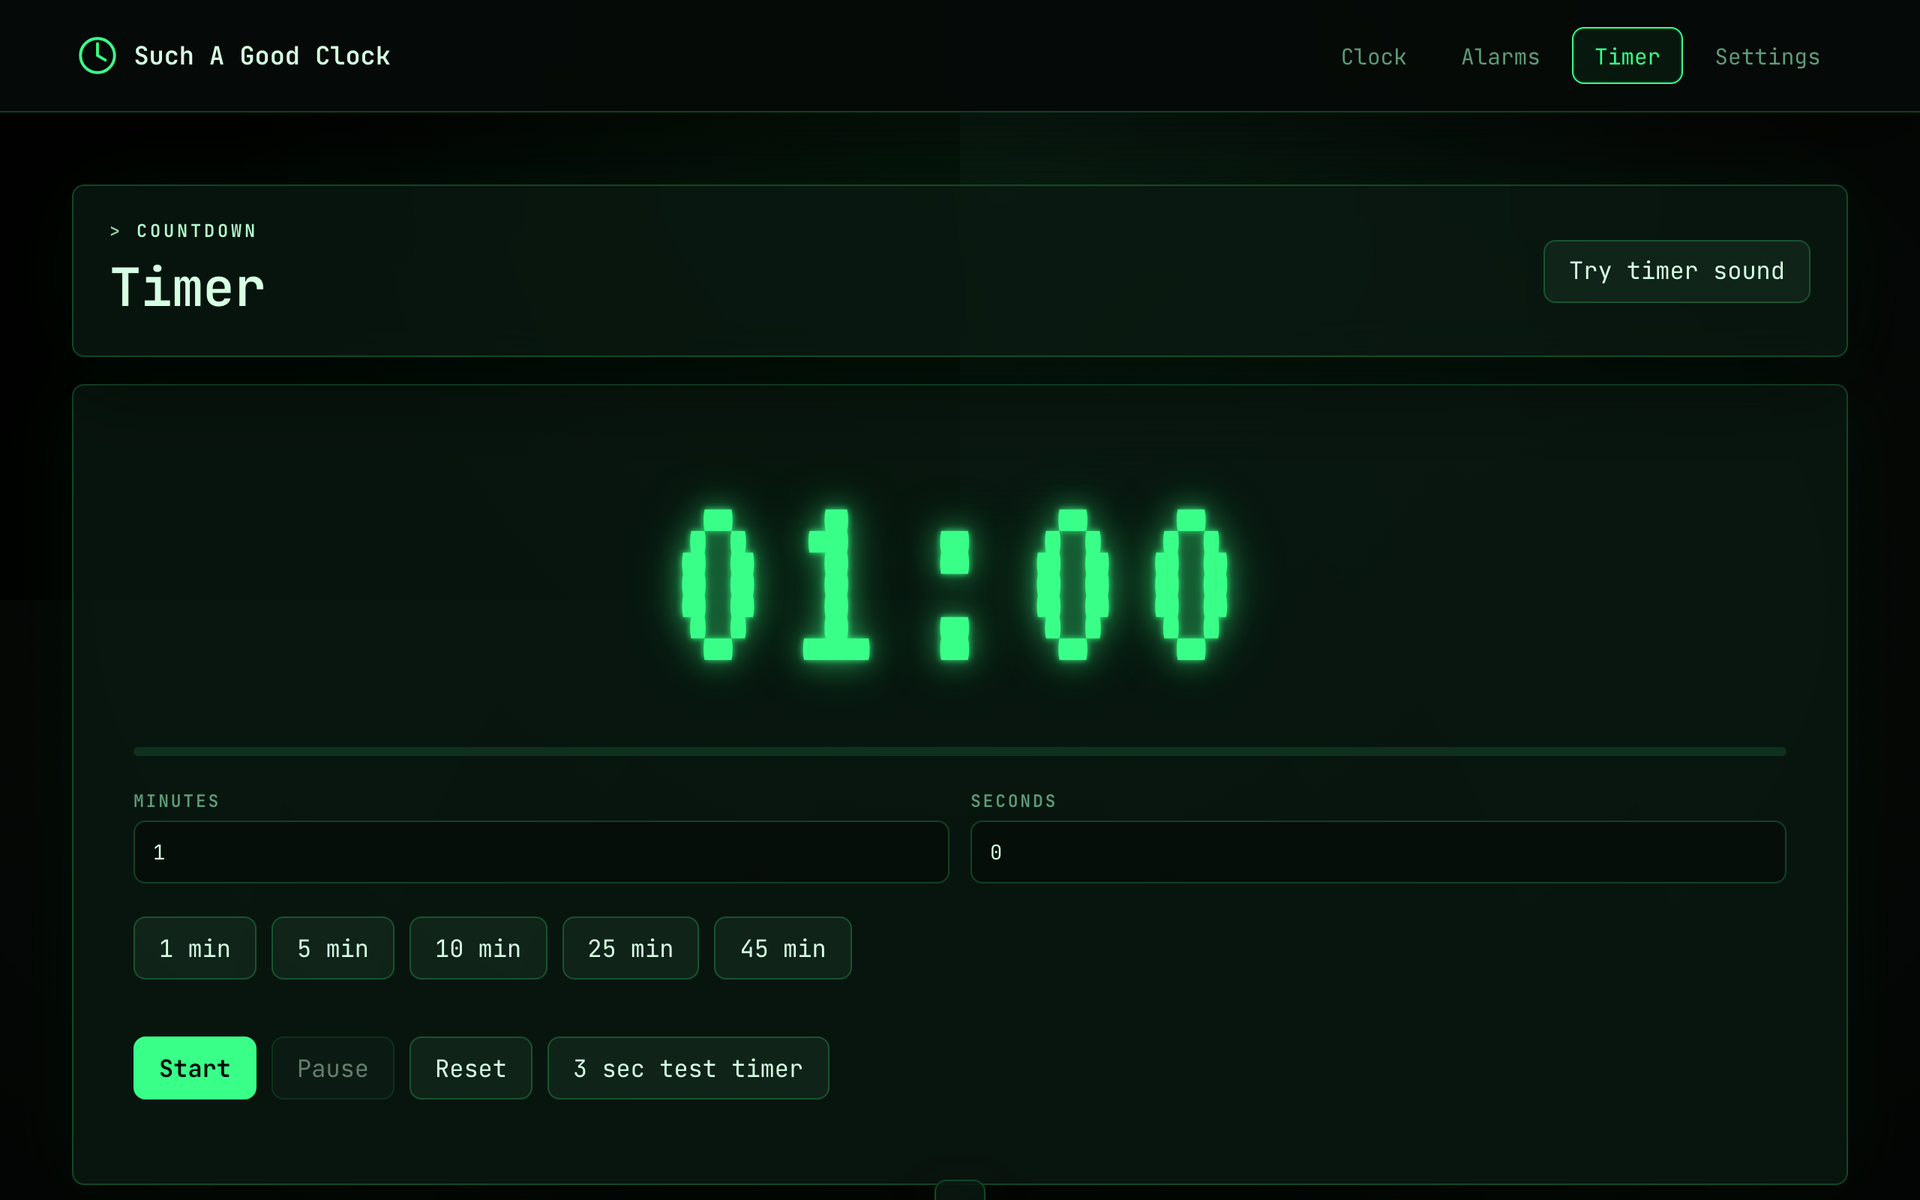
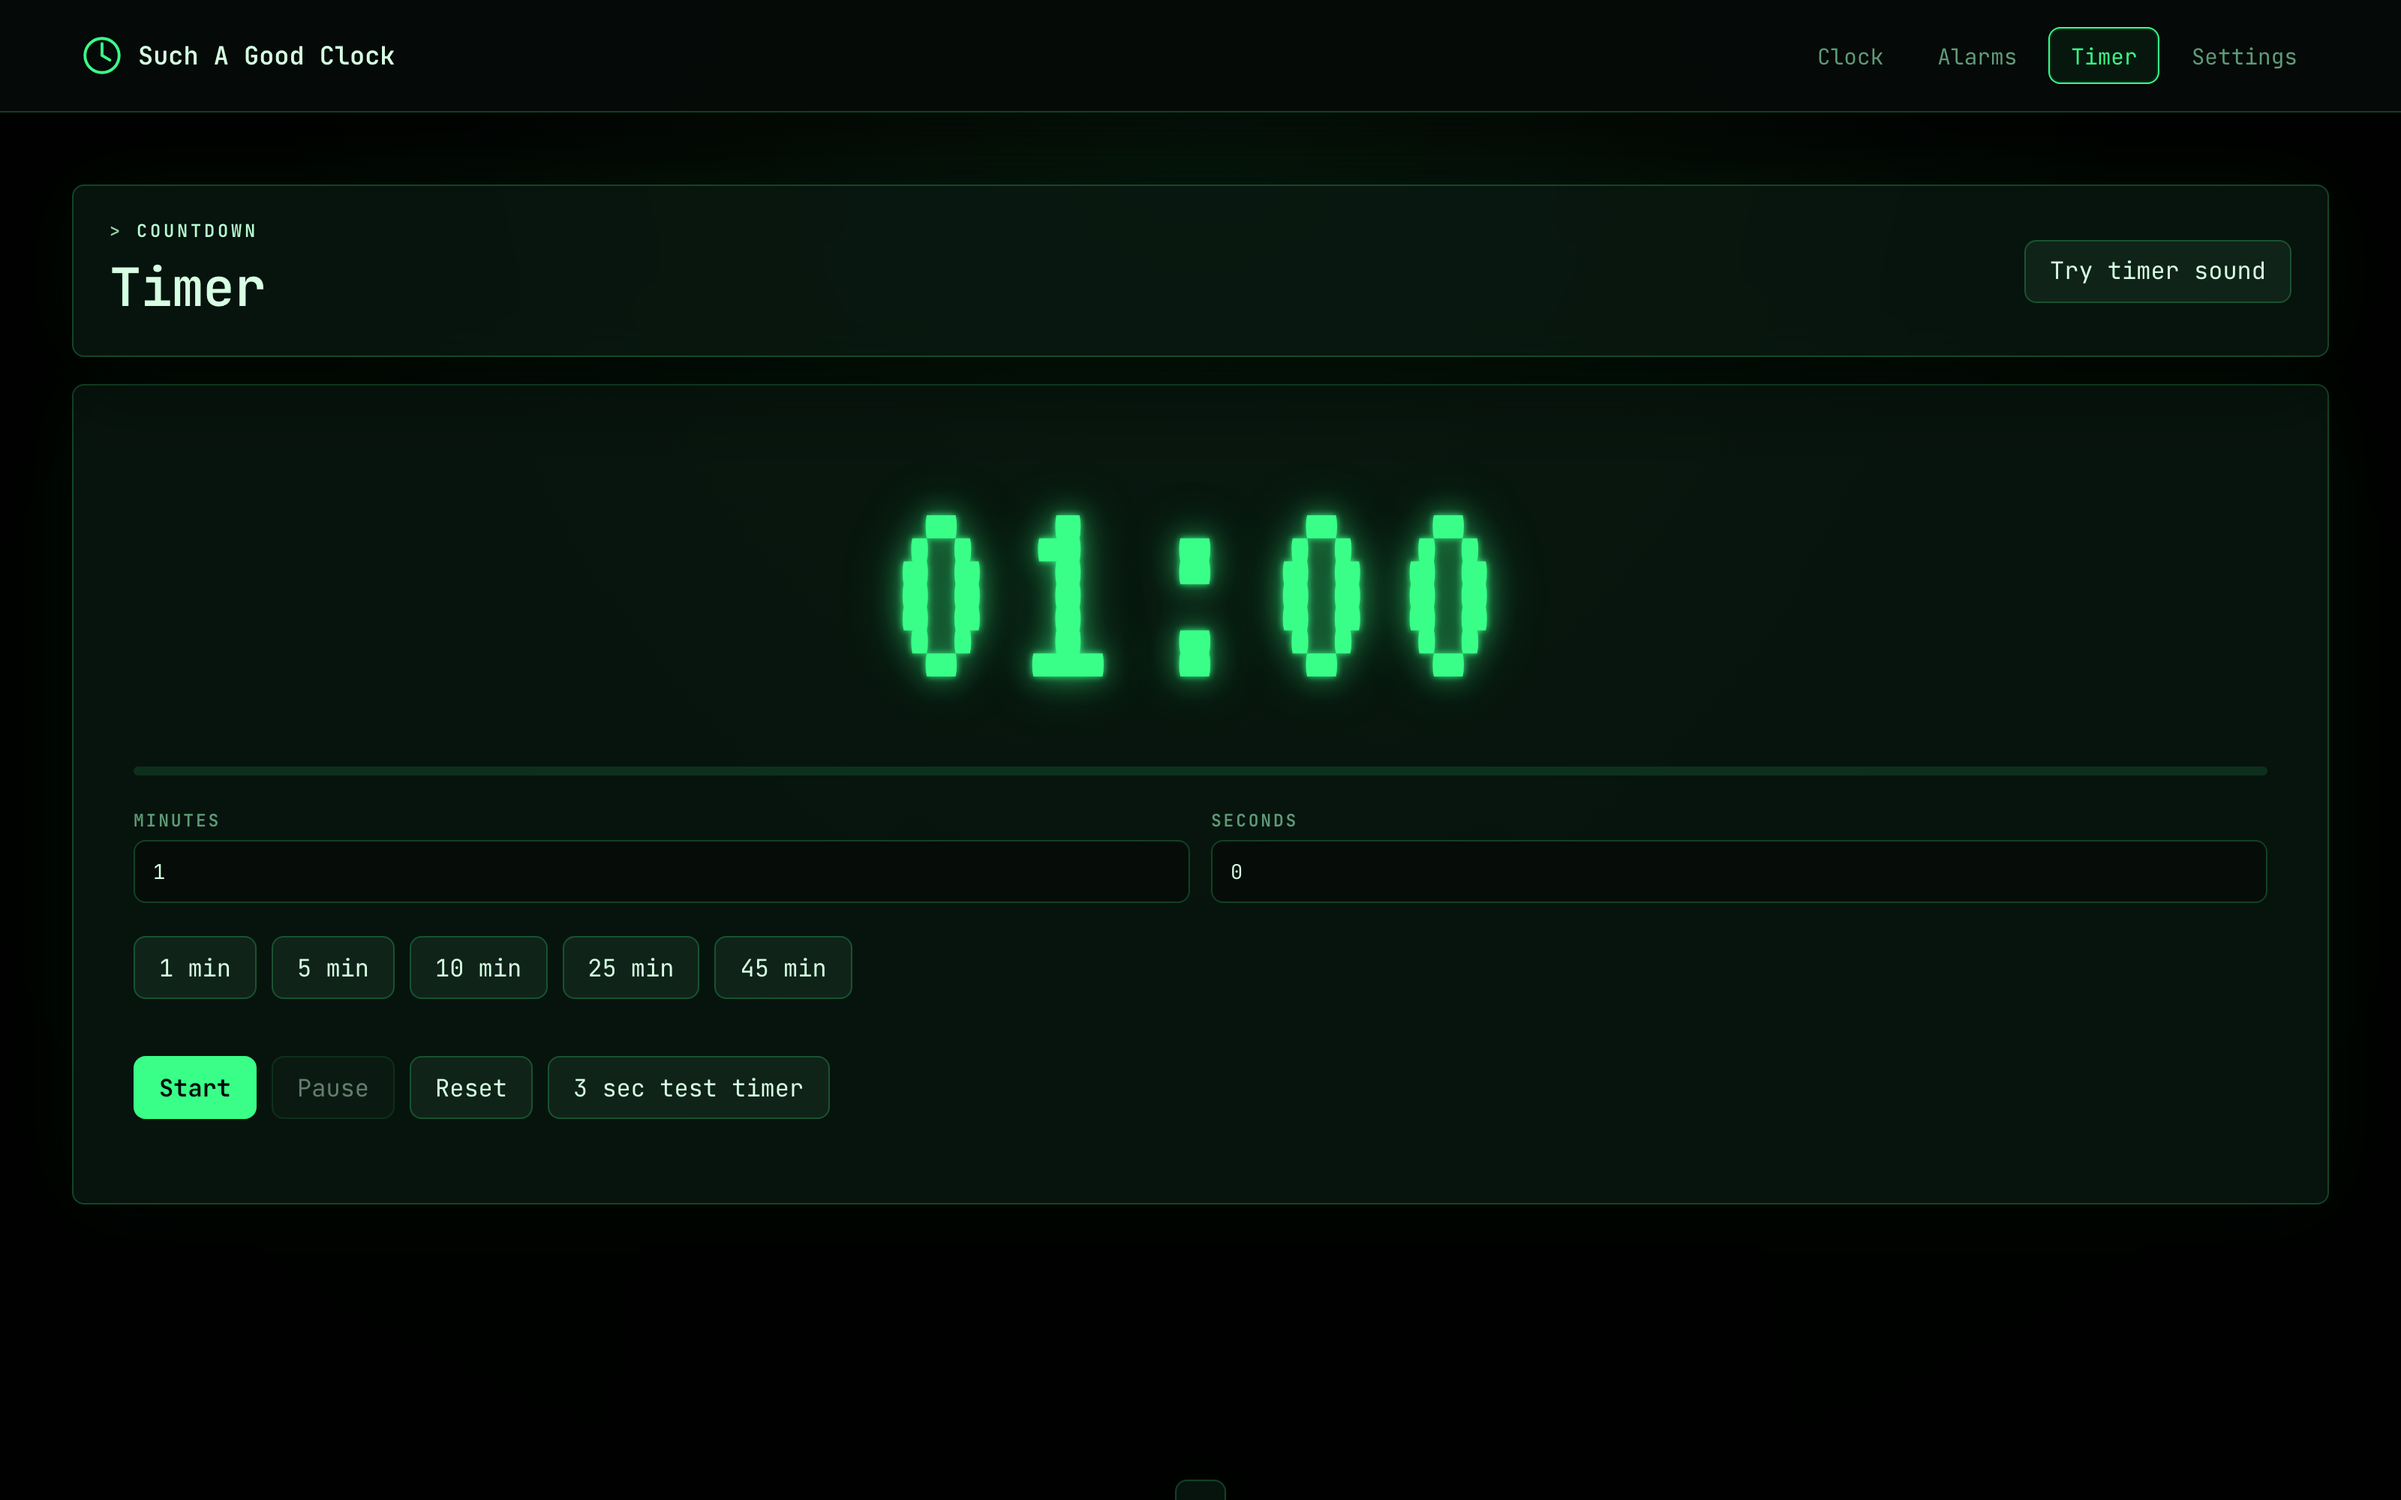
docs: hi-res Retina screenshots + single-column README layout
- Re-capture all 6 theme stills at 1600x1000 viewport with device_scale_factor=2 (3200x2000 PNG → crisp on Retina displays after GitHub downsamples to ~900px column width)
- Re-capture animated GIF at 1440x900 DPR 2, scaled to 900px wide
- Restructure Preview section from 3-column tables to single-column H3 + full-width image (each image renders at ~900px on the README web view instead of ~300px in a 3-col grid)
- Add specific alt-text for each image to describe the visual

diff --git a/README.md b/README.md
@@ -14,19 +14,36 @@
 
 ![Such A Good Clock cycling through all six themes — Matrix, 2049, Alien, Pinkie, Interstellar, Rainbow](docs/screenshots/theme-cycle.gif)
 
-### Cinematic themes — pick one, change anytime
+### Cinematic themes
 
-| Matrix | 2049 | Alien |
-| --- | --- | --- |
-| ![Matrix theme](docs/screenshots/theme-matrix.png) | ![Blade Runner 2049 theme](docs/screenshots/theme-bladerunner.png) | ![Alien theme](docs/screenshots/theme-alien.png) |
-| Pinkie | Rainbow | Interstellar |
-| ![Pinkie theme](docs/screenshots/theme-pinkie.png) | ![Rainbow theme](docs/screenshots/theme-rainbow.png) | ![Interstellar theme](docs/screenshots/theme-interstellar.png) |
+#### Matrix
+![Matrix theme — phosphor green CRT, digital rain, monospace digits with a rotating Matrix quote](docs/screenshots/theme-matrix.png)
+
+#### 2049 (Blade Runner 2049)
+![Blade Runner 2049 theme — amber serif digits with chromatic shadow on warm sepia background](docs/screenshots/theme-bladerunner.png)
+
+#### Alien (Nostromo amber CRT)
+![Alien theme — amber phosphor CRT digits with a hard inner glow, mono spacing, Nostromo aesthetic](docs/screenshots/theme-alien.png)
+
+#### Pinkie
+![Pinkie theme — bubblegum pink gradient digits with hard cartoon shadow on soft pink background](docs/screenshots/theme-pinkie.png)
+
+#### Rainbow
+![Rainbow theme — rainbow gradient digits with white drop shadow on cyan-to-mint sky background](docs/screenshots/theme-rainbow.png)
+
+#### Interstellar
+![Interstellar theme — thin elegant white-gold digits with calm warm glow on deep space background](docs/screenshots/theme-interstellar.png)
 
 ### Functional surfaces
 
-| Theme studio | Timer | Alarms |
-| --- | --- | --- |
-| ![Theme picker with live previews](docs/screenshots/settings-theme-picker.png) | ![Countdown timer with Pomodoro presets](docs/screenshots/timer.png) | ![Alarms page](docs/screenshots/alarms.png) |
+#### Theme studio
+![Theme picker with live previews for all six themes, layout segmented control, three-color clock palette, and accent swatch grid](docs/screenshots/settings-theme-picker.png)
+
+#### Timer
+![Countdown timer with five preset durations (1m / 5m / 10m / 25m / 45m), three-second test button, progress bar, and start / pause / reset controls](docs/screenshots/timer.png)
+
+#### Alarms
+![Alarms page with time + label + sound form, quick +1m / +10m / test buttons, and a list of saved daily alarms](docs/screenshots/alarms.png)
 
 Such A Good Clock opens directly into a polished Matrix-inspired clock by default: split layout, live seconds, steady colon, full-volume Web Audio, auto-hiding top tabs, background effects, and CRT scanlines. From there, users can switch between six cinematic themes (above), tune the clock with a three-color palette, save personal greetings, set alarms, and run countdown timers in the browser or as a native desktop app.
 
